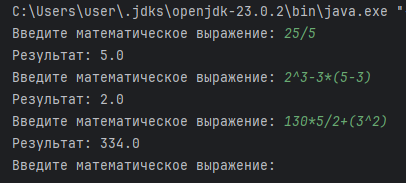
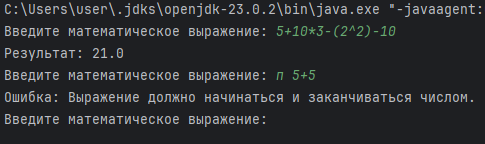
1 laba
1 laba

diff --git a/java2/1 лаба/CalculatorModel.java b/java2/1 лаба/CalculatorModel.java
@@ -1,5 +1,16 @@
 public class CalculatorModel {
     public double calculate(String expression) {
+        expression = expression.trim().replaceAll("\\s+", "");
+
+        if (!expression.matches("^[\\d.].*[\\d.]$")) {
+            throw new IllegalArgumentException("Выражение должно начинаться и заканчиваться числом.");
+        }
+
+        int numberCount = expression.split("(?<=[0-9.])(?=[^0-9.])|(?<=[^0-9.])(?=[0-9.])").length;
+        if (numberCount > 100) {
+            throw new IllegalArgumentException("Превышено максимальное количество элементов (100).");
+        }
+
         try {
             return evaluate(expression);
         } catch (Exception e) {
@@ -31,7 +42,7 @@ public class CalculatorModel {
                     throw new RuntimeException("Неожиданный символ: " + (char) ch);
                 return x;
             }
-            
+
             double parseExpression() {
                 double x = parseTerm();
                 while (true) {
